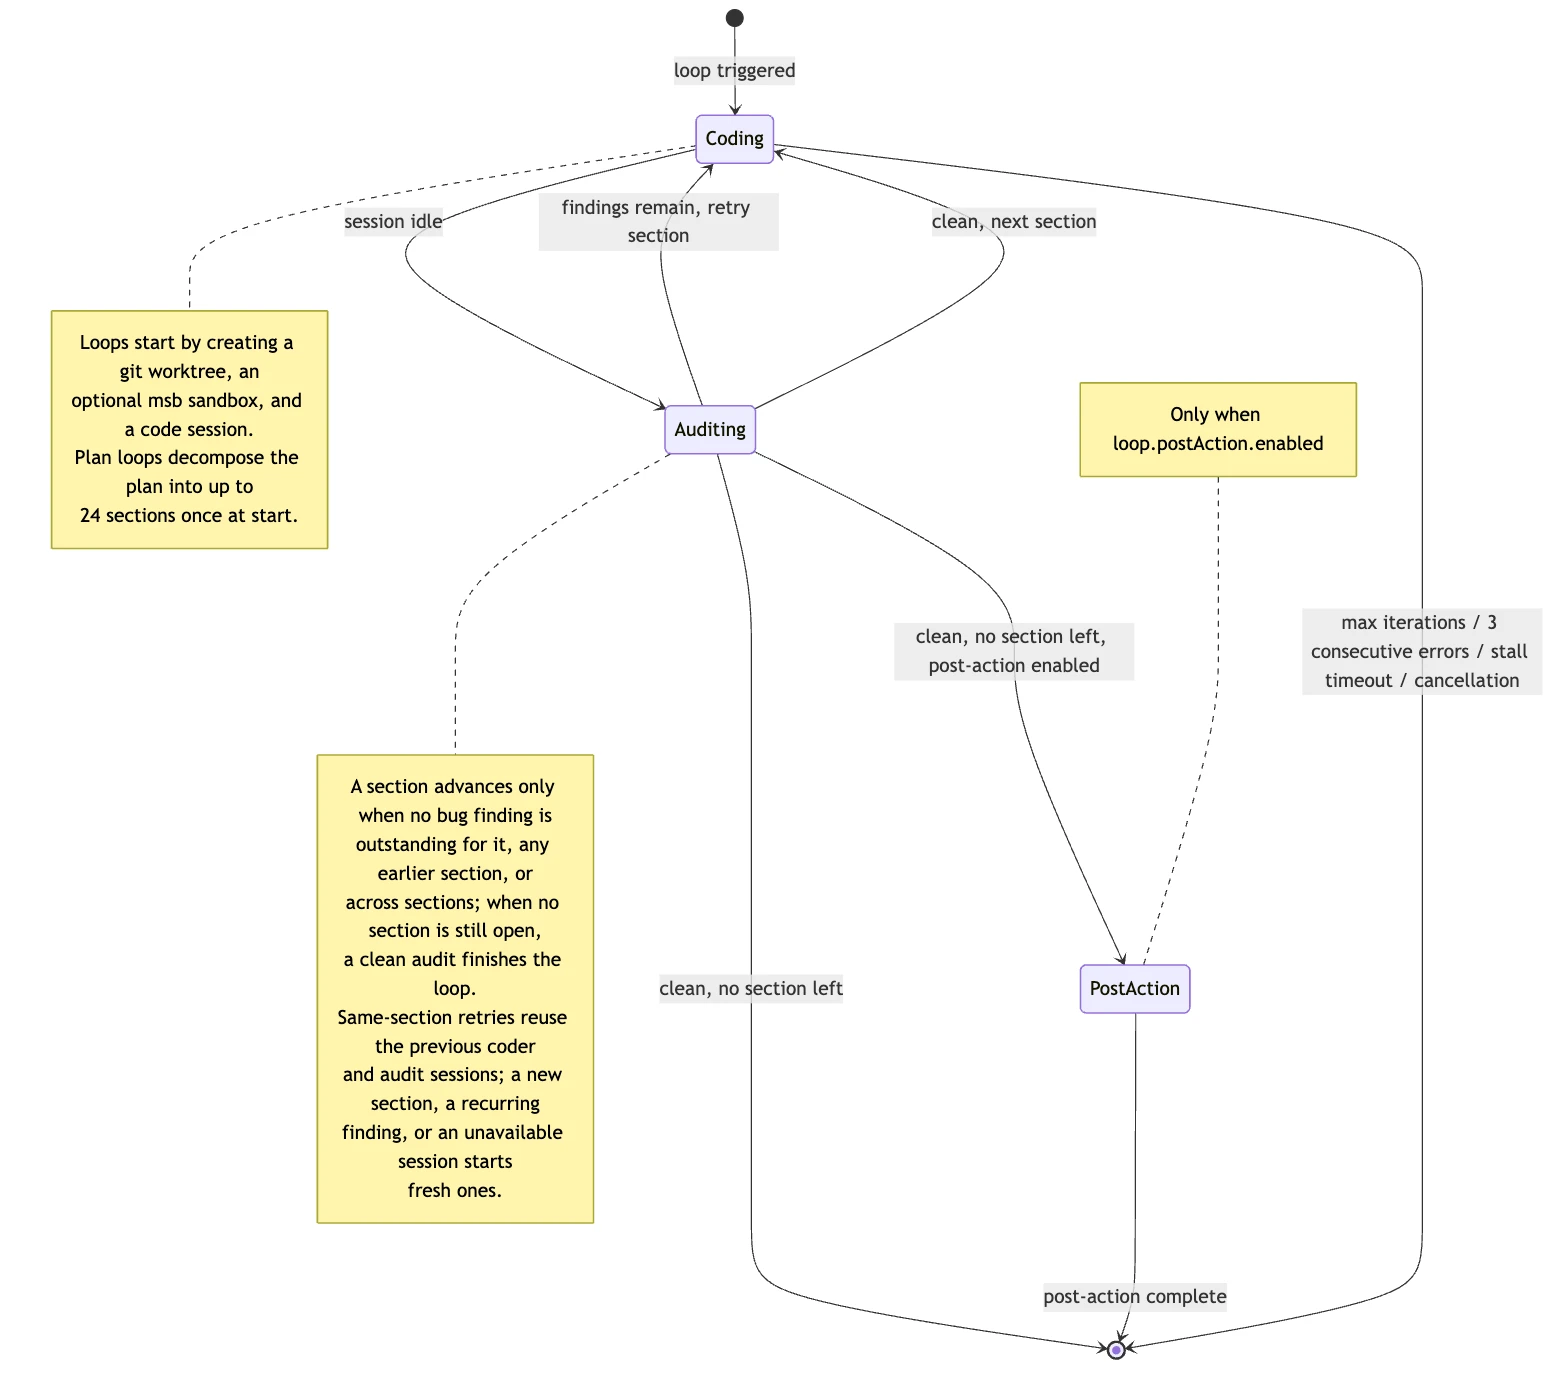
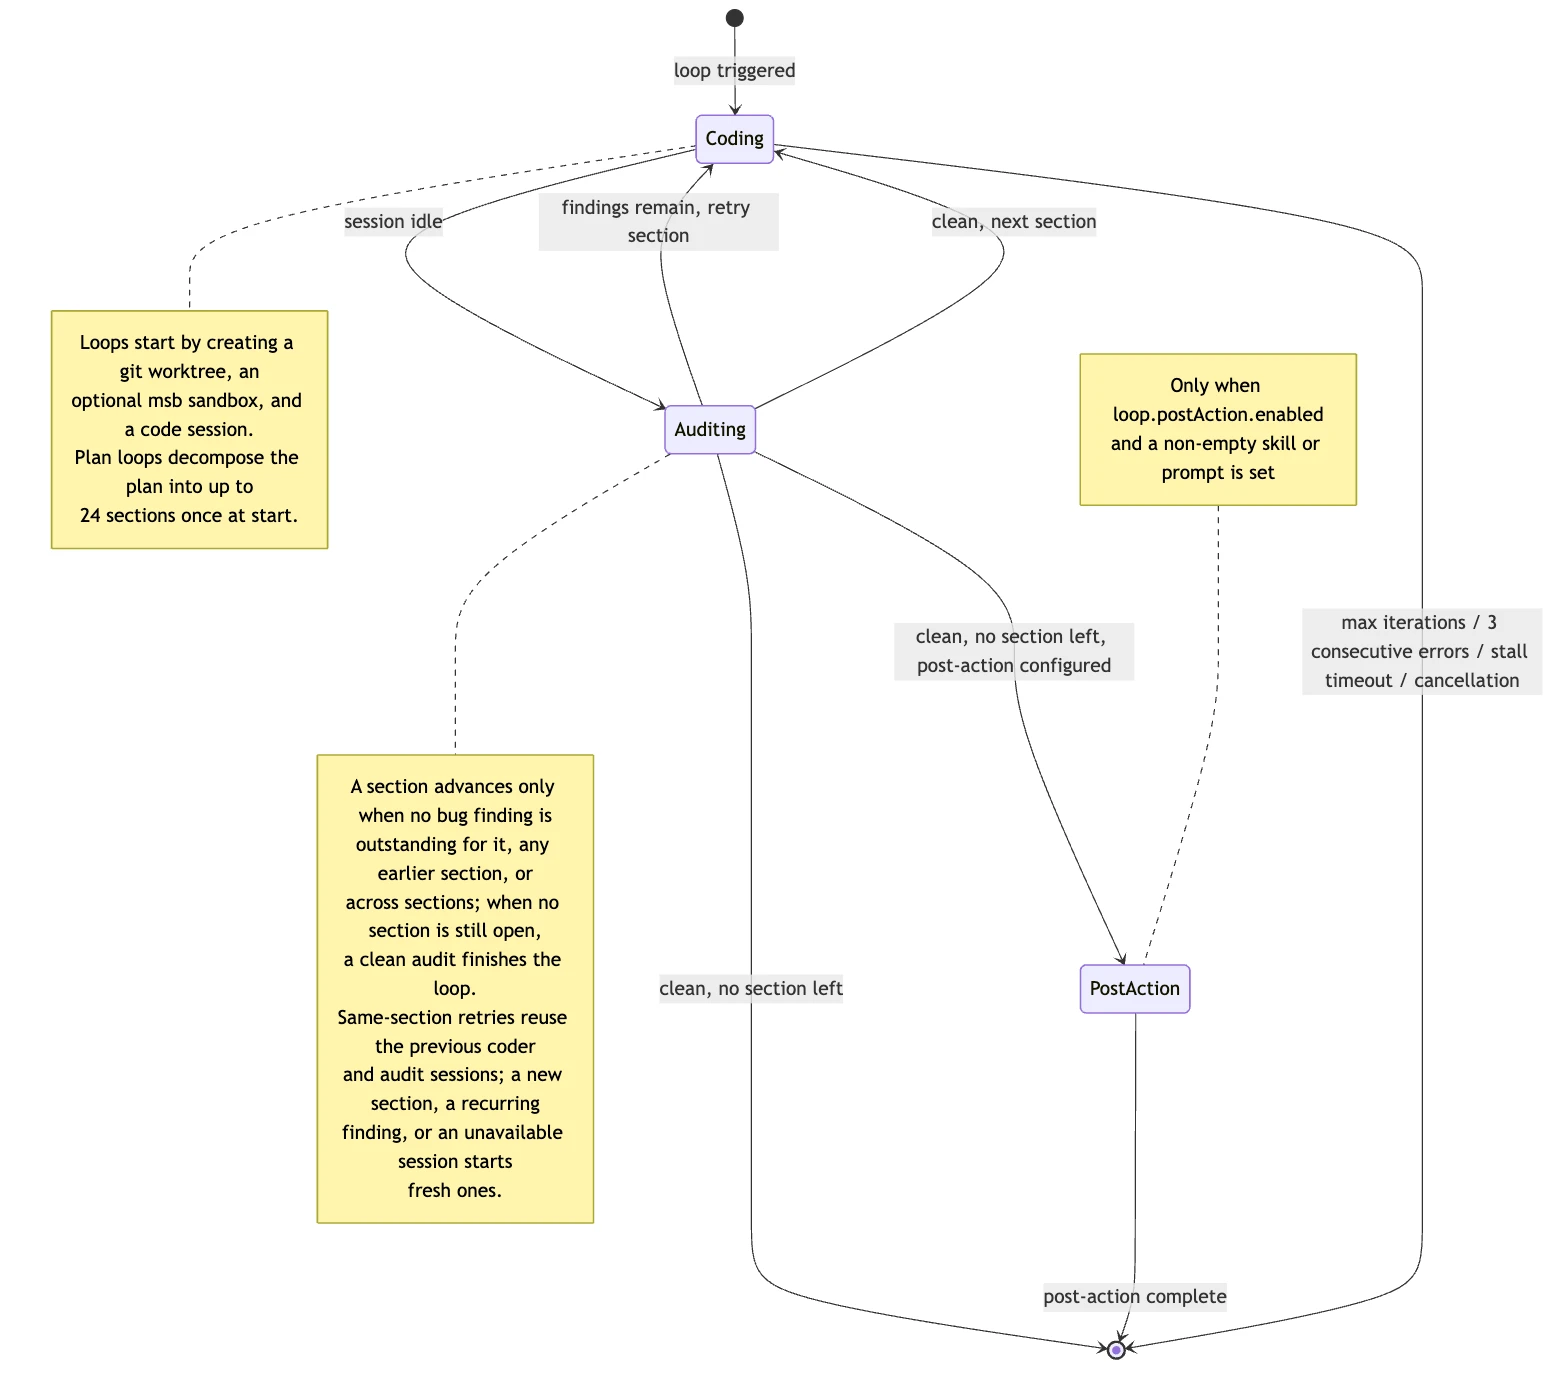
docs(loop): post-action needs enabled plus a skill or prompt

Changed region(s): [[0.6875, 0.2486, 0.875, 0.3728], [0.5938, 0.466, 0.7188, 0.4971]]

diff --git a/docs/api/interfaces/PluginConfig.md b/docs/api/interfaces/PluginConfig.md
@@ -6,7 +6,7 @@
 
 # Interface: PluginConfig
 
-Defined in: [types.ts:306](https://github.com/chriswritescode-dev/opencode-forge/blob/6038e5ad6901147f0e3b31365281adcf55e3b5e4/src/types.ts#L306)
+Defined in: [types.ts:306](https://github.com/chriswritescode-dev/opencode-forge/blob/ee8cb4bc09600d82484189e414836ccebacb135a/src/types.ts#L306)
 
 Complete plugin configuration for opencode-forge.
 
@@ -16,7 +16,7 @@ Complete plugin configuration for opencode-forge.
 
 > `optional` **agents?**: `Record`\<`string`, `AgentOverrideConfig`\>
 
-Defined in: [types.ts:334](https://github.com/chriswritescode-dev/opencode-forge/blob/6038e5ad6901147f0e3b31365281adcf55e3b5e4/src/types.ts#L334)
+Defined in: [types.ts:334](https://github.com/chriswritescode-dev/opencode-forge/blob/ee8cb4bc09600d82484189e414836ccebacb135a/src/types.ts#L334)
 
 Per-agent configuration overrides.
 
@@ -26,7 +26,7 @@ Per-agent configuration overrides.
 
 > `optional` **auditorFallbackModels?**: (`string` \| `AuditorFallbackModel`)[]
 
-Defined in: [types.ts:324](https://github.com/chriswritescode-dev/opencode-forge/blob/6038e5ad6901147f0e3b31365281adcf55e3b5e4/src/types.ts#L324)
+Defined in: [types.ts:324](https://github.com/chriswritescode-dev/opencode-forge/blob/ee8cb4bc09600d82484189e414836ccebacb135a/src/types.ts#L324)
 
 Ordered entries tried, in order, when the current auditor model hits a provider usage/auth limit mid-loop. Use a `"provider/model"` string, or `{ model, variant }` to pin a variant to that fallback; the primary `auditorVariant` is **not** inherited by fallback entries.
 
@@ -36,7 +36,7 @@ Ordered entries tried, in order, when the current auditor model hits a provider 
 
 > `optional` **auditorModel?**: `string`
 
-Defined in: [types.ts:318](https://github.com/chriswritescode-dev/opencode-forge/blob/6038e5ad6901147f0e3b31365281adcf55e3b5e4/src/types.ts#L318)
+Defined in: [types.ts:318](https://github.com/chriswritescode-dev/opencode-forge/blob/ee8cb4bc09600d82484189e414836ccebacb135a/src/types.ts#L318)
 
 Model to use for code auditing.
 
@@ -46,7 +46,7 @@ Model to use for code auditing.
 
 > `optional` **auditorVariant?**: `string`
 
-Defined in: [types.ts:322](https://github.com/chriswritescode-dev/opencode-forge/blob/6038e5ad6901147f0e3b31365281adcf55e3b5e4/src/types.ts#L322)
+Defined in: [types.ts:322](https://github.com/chriswritescode-dev/opencode-forge/blob/ee8cb4bc09600d82484189e414836ccebacb135a/src/types.ts#L322)
 
 Default reasoning/thinking variant for the auditor model.
 
@@ -56,7 +56,7 @@ Default reasoning/thinking variant for the auditor model.
 
 > `optional` **autoApprove?**: `AutoApproveConfig`
 
-Defined in: [types.ts:338](https://github.com/chriswritescode-dev/opencode-forge/blob/6038e5ad6901147f0e3b31365281adcf55e3b5e4/src/types.ts#L338)
+Defined in: [types.ts:338](https://github.com/chriswritescode-dev/opencode-forge/blob/ee8cb4bc09600d82484189e414836ccebacb135a/src/types.ts#L338)
 
 Policy applied while auto-approve is on for a session.
 
@@ -66,7 +66,7 @@ Policy applied while auto-approve is on for a session.
 
 > `optional` **compaction?**: [`CompactionConfig`](CompactionConfig.md)
 
-Defined in: [types.ts:312](https://github.com/chriswritescode-dev/opencode-forge/blob/6038e5ad6901147f0e3b31365281adcf55e3b5e4/src/types.ts#L312)
+Defined in: [types.ts:312](https://github.com/chriswritescode-dev/opencode-forge/blob/ee8cb4bc09600d82484189e414836ccebacb135a/src/types.ts#L312)
 
 Compaction behavior configuration.
 
@@ -76,7 +76,7 @@ Compaction behavior configuration.
 
 > `optional` **completedLoopTtlMs?**: `number`
 
-Defined in: [types.ts:328](https://github.com/chriswritescode-dev/opencode-forge/blob/6038e5ad6901147f0e3b31365281adcf55e3b5e4/src/types.ts#L328)
+Defined in: [types.ts:328](https://github.com/chriswritescode-dev/opencode-forge/blob/ee8cb4bc09600d82484189e414836ccebacb135a/src/types.ts#L328)
 
 TTL for completed/cancelled/errored/stalled loops before sweep. Default 7 days.
 
@@ -86,7 +86,7 @@ TTL for completed/cancelled/errored/stalled loops before sweep. Default 7 days.
 
 > `optional` **dashboard?**: [`DashboardConfig`](DashboardConfig.md)
 
-Defined in: [types.ts:332](https://github.com/chriswritescode-dev/opencode-forge/blob/6038e5ad6901147f0e3b31365281adcf55e3b5e4/src/types.ts#L332)
+Defined in: [types.ts:332](https://github.com/chriswritescode-dev/opencode-forge/blob/ee8cb4bc09600d82484189e414836ccebacb135a/src/types.ts#L332)
 
 Dashboard HTTP server bind configuration.
 
@@ -96,7 +96,7 @@ Dashboard HTTP server bind configuration.
 
 > `optional` **dataDir?**: `string`
 
-Defined in: [types.ts:308](https://github.com/chriswritescode-dev/opencode-forge/blob/6038e5ad6901147f0e3b31365281adcf55e3b5e4/src/types.ts#L308)
+Defined in: [types.ts:308](https://github.com/chriswritescode-dev/opencode-forge/blob/ee8cb4bc09600d82484189e414836ccebacb135a/src/types.ts#L308)
 
 Custom data directory for plugin storage. Defaults to platform data dir.
 
@@ -106,7 +106,7 @@ Custom data directory for plugin storage. Defaults to platform data dir.
 
 > `optional` **executionModel?**: `string`
 
-Defined in: [types.ts:316](https://github.com/chriswritescode-dev/opencode-forge/blob/6038e5ad6901147f0e3b31365281adcf55e3b5e4/src/types.ts#L316)
+Defined in: [types.ts:316](https://github.com/chriswritescode-dev/opencode-forge/blob/ee8cb4bc09600d82484189e414836ccebacb135a/src/types.ts#L316)
 
 Model to use for code execution.
 
@@ -116,7 +116,7 @@ Model to use for code execution.
 
 > `optional` **executionVariant?**: `string`
 
-Defined in: [types.ts:320](https://github.com/chriswritescode-dev/opencode-forge/blob/6038e5ad6901147f0e3b31365281adcf55e3b5e4/src/types.ts#L320)
+Defined in: [types.ts:320](https://github.com/chriswritescode-dev/opencode-forge/blob/ee8cb4bc09600d82484189e414836ccebacb135a/src/types.ts#L320)
 
 Default reasoning/thinking variant for the execution model.
 
@@ -126,7 +126,7 @@ Default reasoning/thinking variant for the execution model.
 
 > `optional` **logging?**: `LoggingConfig`
 
-Defined in: [types.ts:310](https://github.com/chriswritescode-dev/opencode-forge/blob/6038e5ad6901147f0e3b31365281adcf55e3b5e4/src/types.ts#L310)
+Defined in: [types.ts:310](https://github.com/chriswritescode-dev/opencode-forge/blob/ee8cb4bc09600d82484189e414836ccebacb135a/src/types.ts#L310)
 
 Logging configuration.
 
@@ -136,7 +136,7 @@ Logging configuration.
 
 > `optional` **loop?**: `LoopConfig`
 
-Defined in: [types.ts:326](https://github.com/chriswritescode-dev/opencode-forge/blob/6038e5ad6901147f0e3b31365281adcf55e3b5e4/src/types.ts#L326)
+Defined in: [types.ts:326](https://github.com/chriswritescode-dev/opencode-forge/blob/ee8cb4bc09600d82484189e414836ccebacb135a/src/types.ts#L326)
 
 Loop behavior configuration.
 
@@ -146,7 +146,7 @@ Loop behavior configuration.
 
 > `optional` **messagesTransform?**: `MessagesTransformConfig`
 
-Defined in: [types.ts:314](https://github.com/chriswritescode-dev/opencode-forge/blob/6038e5ad6901147f0e3b31365281adcf55e3b5e4/src/types.ts#L314)
+Defined in: [types.ts:314](https://github.com/chriswritescode-dev/opencode-forge/blob/ee8cb4bc09600d82484189e414836ccebacb135a/src/types.ts#L314)
 
 Message transformation for architect agent.
 
@@ -156,7 +156,7 @@ Message transformation for architect agent.
 
 > `optional` **sandbox?**: `SandboxConfig`
 
-Defined in: [types.ts:336](https://github.com/chriswritescode-dev/opencode-forge/blob/6038e5ad6901147f0e3b31365281adcf55e3b5e4/src/types.ts#L336)
+Defined in: [types.ts:336](https://github.com/chriswritescode-dev/opencode-forge/blob/ee8cb4bc09600d82484189e414836ccebacb135a/src/types.ts#L336)
 
 Sandbox execution configuration.
 
@@ -166,6 +166,6 @@ Sandbox execution configuration.
 
 > `optional` **tui?**: `TuiConfig`
 
-Defined in: [types.ts:330](https://github.com/chriswritescode-dev/opencode-forge/blob/6038e5ad6901147f0e3b31365281adcf55e3b5e4/src/types.ts#L330)
+Defined in: [types.ts:330](https://github.com/chriswritescode-dev/opencode-forge/blob/ee8cb4bc09600d82484189e414836ccebacb135a/src/types.ts#L330)
 
 TUI display configuration.

diff --git a/docs/api/interfaces/CreateSessionDirectoryLookupOptions.md b/docs/api/interfaces/CreateSessionDirectoryLookupOptions.md
@@ -6,7 +6,7 @@
 
 # Interface: CreateSessionDirectoryLookupOptions
 
-Defined in: [host/forge-core.ts:214](https://github.com/chriswritescode-dev/opencode-forge/blob/6038e5ad6901147f0e3b31365281adcf55e3b5e4/src/host/forge-core.ts#L214)
+Defined in: [host/forge-core.ts:214](https://github.com/chriswritescode-dev/opencode-forge/blob/ee8cb4bc09600d82484189e414836ccebacb135a/src/host/forge-core.ts#L214)
 
 ## Properties
 
@@ -14,7 +14,7 @@ Defined in: [host/forge-core.ts:214](https://github.com/chriswritescode-dev/open
 
 > **client**: `ForgeClient`
 
-Defined in: [host/forge-core.ts:215](https://github.com/chriswritescode-dev/opencode-forge/blob/6038e5ad6901147f0e3b31365281adcf55e3b5e4/src/host/forge-core.ts#L215)
+Defined in: [host/forge-core.ts:215](https://github.com/chriswritescode-dev/opencode-forge/blob/ee8cb4bc09600d82484189e414836ccebacb135a/src/host/forge-core.ts#L215)
 
 ***
 
@@ -22,7 +22,7 @@ Defined in: [host/forge-core.ts:215](https://github.com/chriswritescode-dev/open
 
 > **directory**: `string`
 
-Defined in: [host/forge-core.ts:216](https://github.com/chriswritescode-dev/opencode-forge/blob/6038e5ad6901147f0e3b31365281adcf55e3b5e4/src/host/forge-core.ts#L216)
+Defined in: [host/forge-core.ts:216](https://github.com/chriswritescode-dev/opencode-forge/blob/ee8cb4bc09600d82484189e414836ccebacb135a/src/host/forge-core.ts#L216)
 
 ***
 
@@ -30,7 +30,7 @@ Defined in: [host/forge-core.ts:216](https://github.com/chriswritescode-dev/open
 
 > **loop**: `Loop`
 
-Defined in: [host/forge-core.ts:217](https://github.com/chriswritescode-dev/opencode-forge/blob/6038e5ad6901147f0e3b31365281adcf55e3b5e4/src/host/forge-core.ts#L217)
+Defined in: [host/forge-core.ts:217](https://github.com/chriswritescode-dev/opencode-forge/blob/ee8cb4bc09600d82484189e414836ccebacb135a/src/host/forge-core.ts#L217)
 
 ***
 
@@ -38,4 +38,4 @@ Defined in: [host/forge-core.ts:217](https://github.com/chriswritescode-dev/open
 
 > `optional` **negativeTtlMs?**: `number`
 
-Defined in: [host/forge-core.ts:218](https://github.com/chriswritescode-dev/opencode-forge/blob/6038e5ad6901147f0e3b31365281adcf55e3b5e4/src/host/forge-core.ts#L218)
+Defined in: [host/forge-core.ts:218](https://github.com/chriswritescode-dev/opencode-forge/blob/ee8cb4bc09600d82484189e414836ccebacb135a/src/host/forge-core.ts#L218)

diff --git a/docs/api/interfaces/CreateParentSessionLookupOptions.md b/docs/api/interfaces/CreateParentSessionLookupOptions.md
@@ -6,7 +6,7 @@
 
 # Interface: CreateParentSessionLookupOptions
 
-Defined in: [host/forge-core.ts:128](https://github.com/chriswritescode-dev/opencode-forge/blob/6038e5ad6901147f0e3b31365281adcf55e3b5e4/src/host/forge-core.ts#L128)
+Defined in: [host/forge-core.ts:128](https://github.com/chriswritescode-dev/opencode-forge/blob/ee8cb4bc09600d82484189e414836ccebacb135a/src/host/forge-core.ts#L128)
 
 ## Properties
 
@@ -14,7 +14,7 @@ Defined in: [host/forge-core.ts:128](https://github.com/chriswritescode-dev/open
 
 > **client**: `ForgeClient`
 
-Defined in: [host/forge-core.ts:129](https://github.com/chriswritescode-dev/opencode-forge/blob/6038e5ad6901147f0e3b31365281adcf55e3b5e4/src/host/forge-core.ts#L129)
+Defined in: [host/forge-core.ts:129](https://github.com/chriswritescode-dev/opencode-forge/blob/ee8cb4bc09600d82484189e414836ccebacb135a/src/host/forge-core.ts#L129)
 
 ***
 
@@ -22,7 +22,7 @@ Defined in: [host/forge-core.ts:129](https://github.com/chriswritescode-dev/open
 
 > **directory**: `string`
 
-Defined in: [host/forge-core.ts:130](https://github.com/chriswritescode-dev/opencode-forge/blob/6038e5ad6901147f0e3b31365281adcf55e3b5e4/src/host/forge-core.ts#L130)
+Defined in: [host/forge-core.ts:130](https://github.com/chriswritescode-dev/opencode-forge/blob/ee8cb4bc09600d82484189e414836ccebacb135a/src/host/forge-core.ts#L130)
 
 ***
 
@@ -30,7 +30,7 @@ Defined in: [host/forge-core.ts:130](https://github.com/chriswritescode-dev/open
 
 > **logger**: `object`
 
-Defined in: [host/forge-core.ts:132](https://github.com/chriswritescode-dev/opencode-forge/blob/6038e5ad6901147f0e3b31365281adcf55e3b5e4/src/host/forge-core.ts#L132)
+Defined in: [host/forge-core.ts:132](https://github.com/chriswritescode-dev/opencode-forge/blob/ee8cb4bc09600d82484189e414836ccebacb135a/src/host/forge-core.ts#L132)
 
 #### debug
 
@@ -92,4 +92,4 @@ Defined in: [host/forge-core.ts:132](https://github.com/chriswritescode-dev/open
 
 > **loop**: `Loop`
 
-Defined in: [host/forge-core.ts:131](https://github.com/chriswritescode-dev/opencode-forge/blob/6038e5ad6901147f0e3b31365281adcf55e3b5e4/src/host/forge-core.ts#L131)
+Defined in: [host/forge-core.ts:131](https://github.com/chriswritescode-dev/opencode-forge/blob/ee8cb4bc09600d82484189e414836ccebacb135a/src/host/forge-core.ts#L131)

diff --git a/docs/api/interfaces/DashboardConfig.md b/docs/api/interfaces/DashboardConfig.md
@@ -6,7 +6,7 @@
 
 # Interface: DashboardConfig
 
-Defined in: [types.ts:276](https://github.com/chriswritescode-dev/opencode-forge/blob/6038e5ad6901147f0e3b31365281adcf55e3b5e4/src/types.ts#L276)
+Defined in: [types.ts:276](https://github.com/chriswritescode-dev/opencode-forge/blob/ee8cb4bc09600d82484189e414836ccebacb135a/src/types.ts#L276)
 
 Configuration for the database-backed observability dashboard HTTP server.
 The dashboard is unauthenticated: binding to a non-loopback address exposes
@@ -20,7 +20,7 @@ for the canonical warning text rendered by launch surfaces.
 
 > `optional` **host?**: `string`
 
-Defined in: [types.ts:278](https://github.com/chriswritescode-dev/opencode-forge/blob/6038e5ad6901147f0e3b31365281adcf55e3b5e4/src/types.ts#L278)
+Defined in: [types.ts:278](https://github.com/chriswritescode-dev/opencode-forge/blob/ee8cb4bc09600d82484189e414836ccebacb135a/src/types.ts#L278)
 
 Bind hostname or IP. Defaults to "localhost". Use "0.0.0.0" to listen on all interfaces.
 
@@ -30,6 +30,6 @@ Bind hostname or IP. Defaults to "localhost". Use "0.0.0.0" to listen on all int
 
 > `optional` **port?**: `number`
 
-Defined in: [types.ts:280](https://github.com/chriswritescode-dev/opencode-forge/blob/6038e5ad6901147f0e3b31365281adcf55e3b5e4/src/types.ts#L280)
+Defined in: [types.ts:280](https://github.com/chriswritescode-dev/opencode-forge/blob/ee8cb4bc09600d82484189e414836ccebacb135a/src/types.ts#L280)
 
 Base bind port. Defaults to 4747. Consecutive ports are tried when busy.

diff --git a/docs/api/interfaces/CompactionConfig.md b/docs/api/interfaces/CompactionConfig.md
@@ -6,7 +6,7 @@
 
 # Interface: CompactionConfig
 
-Defined in: [types.ts:239](https://github.com/chriswritescode-dev/opencode-forge/blob/6038e5ad6901147f0e3b31365281adcf55e3b5e4/src/types.ts#L239)
+Defined in: [types.ts:239](https://github.com/chriswritescode-dev/opencode-forge/blob/ee8cb4bc09600d82484189e414836ccebacb135a/src/types.ts#L239)
 
 Configuration for session compaction behavior.
 
@@ -16,7 +16,7 @@ Configuration for session compaction behavior.
 
 > `optional` **customPrompt?**: `boolean`
 
-Defined in: [types.ts:241](https://github.com/chriswritescode-dev/opencode-forge/blob/6038e5ad6901147f0e3b31365281adcf55e3b5e4/src/types.ts#L241)
+Defined in: [types.ts:241](https://github.com/chriswritescode-dev/opencode-forge/blob/ee8cb4bc09600d82484189e414836ccebacb135a/src/types.ts#L241)
 
 Use a custom compaction prompt.
 
@@ -26,6 +26,6 @@ Use a custom compaction prompt.
 
 > `optional` **maxContextTokens?**: `number`
 
-Defined in: [types.ts:243](https://github.com/chriswritescode-dev/opencode-forge/blob/6038e5ad6901147f0e3b31365281adcf55e3b5e4/src/types.ts#L243)
+Defined in: [types.ts:243](https://github.com/chriswritescode-dev/opencode-forge/blob/ee8cb4bc09600d82484189e414836ccebacb135a/src/types.ts#L243)
 
 Maximum context tokens for compaction. Currently unused by Forge's compaction hook, which reads only `customPrompt`.

diff --git a/docs/api/_media/loop-system.md b/docs/api/_media/loop-system.md
@@ -40,8 +40,8 @@ stateDiagram-v2
     Coding --> Auditing: coding idle complete
     Auditing --> Coding: section dirty or audit dirty
     Auditing --> Coding: next section
-    Auditing --> PostAction: clean, no section left, post-action enabled
-    note right of PostAction: Only when loop.postAction.enabled
+    Auditing --> PostAction: clean, no section left, post-action configured
+    note right of PostAction: Only when loop.postAction.enabled and a non-empty skill or prompt is set
     PostAction --> [*]: post-action complete
     Coding --> [*]: max iterations / retry limit / stall timeout / cancellation
     Auditing --> [*]: audit clear / clean, no section left

diff --git a/docs/loop-system.md b/docs/loop-system.md
@@ -40,8 +40,8 @@ stateDiagram-v2
     Coding --> Auditing: coding idle complete
     Auditing --> Coding: section dirty or audit dirty
     Auditing --> Coding: next section
-    Auditing --> PostAction: clean, no section left, post-action enabled
-    note right of PostAction: Only when loop.postAction.enabled
+    Auditing --> PostAction: clean, no section left, post-action configured
+    note right of PostAction: Only when loop.postAction.enabled and a non-empty skill or prompt is set
     PostAction --> [*]: post-action complete
     Coding --> [*]: max iterations / retry limit / stall timeout / cancellation
     Auditing --> [*]: audit clear / clean, no section left

diff --git a/docs/api/functions/createParentSessionLookup.md b/docs/api/functions/createParentSessionLookup.md
@@ -8,7 +8,7 @@
 
 > **createParentSessionLookup**(`__namedParameters`): (`sessionId`) => `Promise`\<`string` \| `null`\>
 
-Defined in: [host/forge-core.ts:166](https://github.com/chriswritescode-dev/opencode-forge/blob/6038e5ad6901147f0e3b31365281adcf55e3b5e4/src/host/forge-core.ts#L166)
+Defined in: [host/forge-core.ts:166](https://github.com/chriswritescode-dev/opencode-forge/blob/ee8cb4bc09600d82484189e414836ccebacb135a/src/host/forge-core.ts#L166)
 
 ## Parameters
 

diff --git a/docs/api/functions/createSessionDirectoryLookup.md b/docs/api/functions/createSessionDirectoryLookup.md
@@ -8,7 +8,7 @@
 
 > **createSessionDirectoryLookup**(`options`): (`sessionId`) => `Promise`\<`string` \| `null`\>
 
-Defined in: [host/forge-core.ts:268](https://github.com/chriswritescode-dev/opencode-forge/blob/6038e5ad6901147f0e3b31365281adcf55e3b5e4/src/host/forge-core.ts#L268)
+Defined in: [host/forge-core.ts:268](https://github.com/chriswritescode-dev/opencode-forge/blob/ee8cb4bc09600d82484189e414836ccebacb135a/src/host/forge-core.ts#L268)
 
 ## Parameters
 

diff --git a/docs/api/functions/setupForgeV2.md b/docs/api/functions/setupForgeV2.md
@@ -8,7 +8,7 @@
 
 > **setupForgeV2**(`ctx`): `Promise`\<() => `Promise`\<`void`\>\>
 
-Defined in: [host/v2.ts:80](https://github.com/chriswritescode-dev/opencode-forge/blob/6038e5ad6901147f0e3b31365281adcf55e3b5e4/src/host/v2.ts#L80)
+Defined in: [host/v2.ts:80](https://github.com/chriswritescode-dev/opencode-forge/blob/ee8cb4bc09600d82484189e414836ccebacb135a/src/host/v2.ts#L80)
 
 ## Parameters
 

diff --git a/docs/api/variables/VERSION.md b/docs/api/variables/VERSION.md
@@ -8,4 +8,4 @@
 
 > `const` **VERSION**: `"1.2.8"` = `'1.2.8'`
 
-Defined in: [version.ts:1](https://github.com/chriswritescode-dev/opencode-forge/blob/6038e5ad6901147f0e3b31365281adcf55e3b5e4/src/version.ts#L1)
+Defined in: [version.ts:1](https://github.com/chriswritescode-dev/opencode-forge/blob/ee8cb4bc09600d82484189e414836ccebacb135a/src/version.ts#L1)

diff --git a/docs/api/variables/default.md b/docs/api/variables/default.md
@@ -8,4 +8,4 @@
 
 > **default**: `Plugin`
 
-Defined in: [index.ts:9](https://github.com/chriswritescode-dev/opencode-forge/blob/6038e5ad6901147f0e3b31365281adcf55e3b5e4/src/index.ts#L9)
+Defined in: [index.ts:9](https://github.com/chriswritescode-dev/opencode-forge/blob/ee8cb4bc09600d82484189e414836ccebacb135a/src/index.ts#L9)
